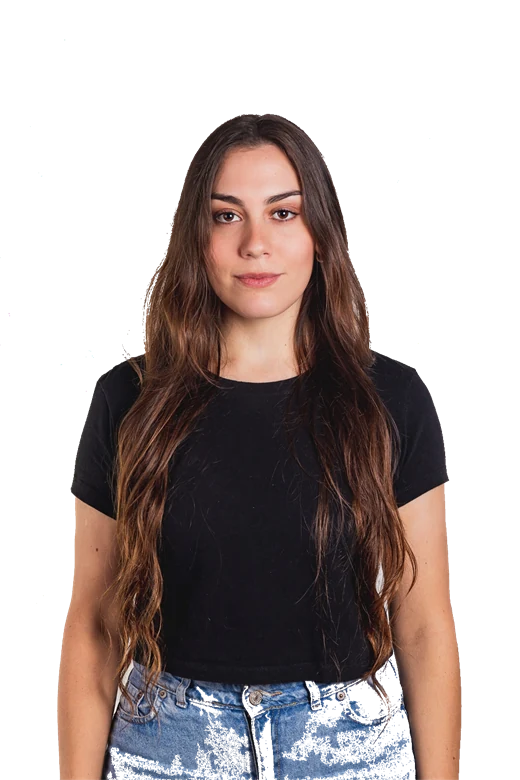
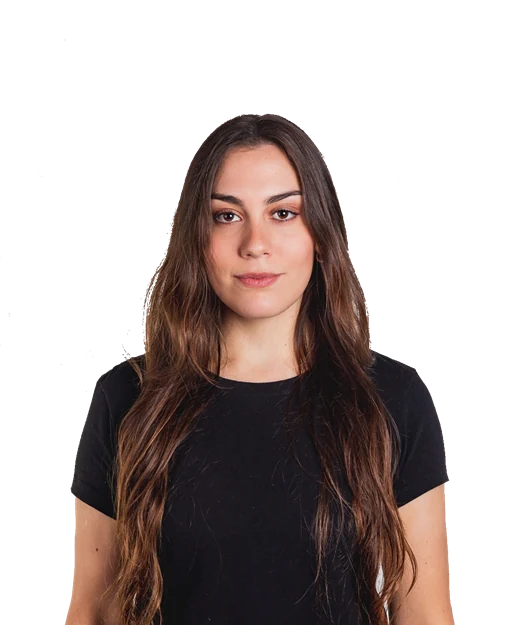
Foto de Darlene recortada a la altura de los codos

diff --git a/index.html b/index.html
@@ -85,7 +85,7 @@
 
     <section class="about-section section-wrap" id="sobre-mi">
       <div class="about-layout">
-        <figure class="portrait-frame reveal"><img src="assets/img/darlene.webp" alt="Darlene Leguizamon, profesora particular de inglés" width="520" height="780" loading="lazy"></figure>
+        <figure class="portrait-frame reveal"><img src="assets/img/darlene.webp" alt="Darlene Leguizamon, profesora particular de inglés" width="520" height="625" loading="lazy"></figure>
         <div class="about-copy reveal"><p class="eyebrow">Sobre mí</p><h2>Darlene Leguizamon</h2>
           <p>Me formé en la Asociación Argentina de Cultura Inglesa, donde terminé los seis niveles en 2017, y rendí los exámenes internacionales de Cambridge desde el KET hasta el CAE.</p>
           <p>Sigo capacitándome, tanto en pronunciación y variantes del idioma como en el estudio de la lengua en sí, porque es algo que me apasiona y creo que para brindar una enseñanza de calidad debo seguir aprendiendo.</p>
